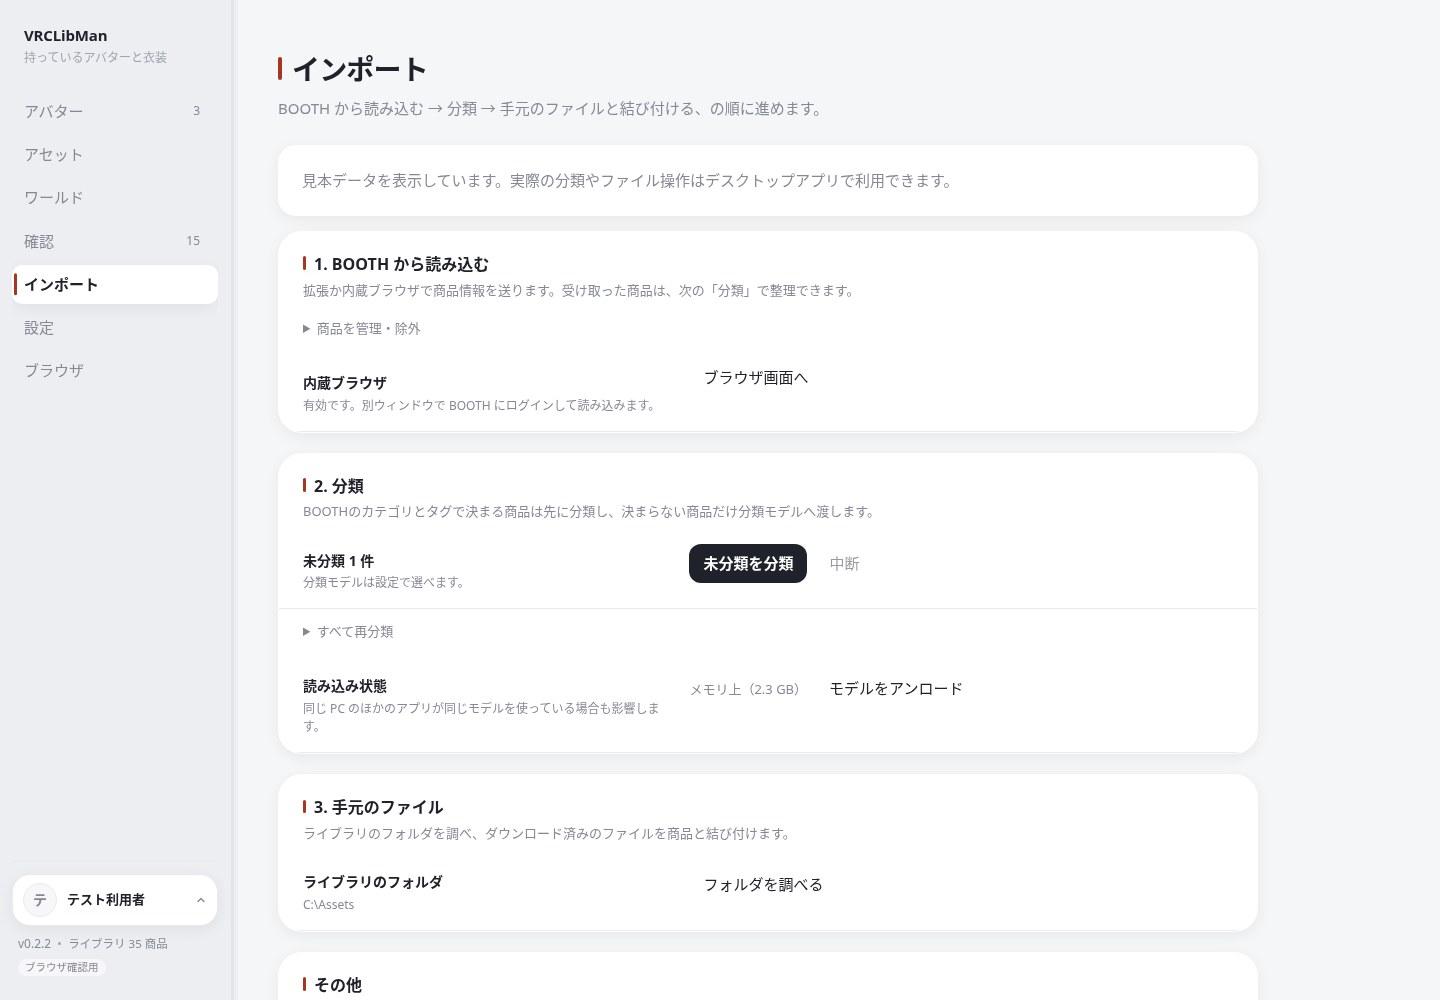
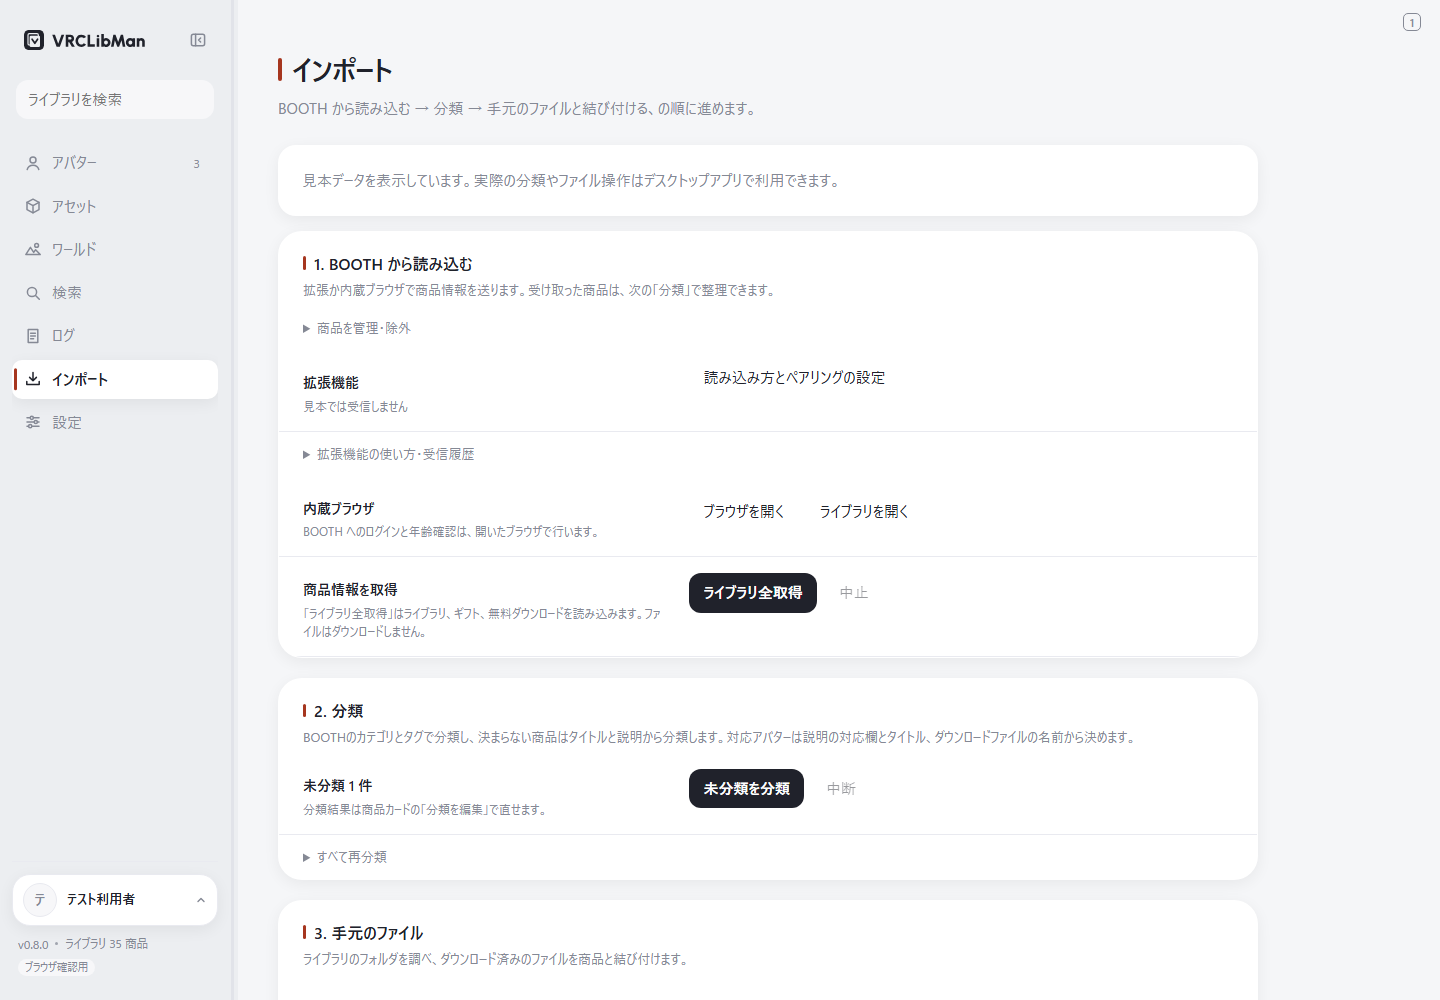
docs: 0.8.0 の画面に合わせて使い方ガイドと画像を更新する

diff --git a/docs/verification.md b/docs/verification.md
@@ -1,5 +1,13 @@
 # 検証記録
 
+## 0.8.0 の使い方ガイドと紹介の更新（2026-11-09）
+
+対象は main `c4a09c9`（0.8.0）を基準にした作業ツリー。Windows x64 / Node.js 24.18.0 / Chrome（ヘッドレス）で、開発プレビューの見本データを使用した。
+
+- 使い方ガイドの画像 16 枚を、0.8.0 の画面で撮り直した。内蔵ブラウザの画面（廃止済み）の画像はインポート画面の「1. BOOTH から読み込む」に替え、狭い窓で右パネルが小窓になる画像を加えた。参照されていない `06-review.png` は削除した。
+- 画面の文言と照合し、ガイドの対象版、狭い窓の右パネル、「確認」メニューの名残、「ログ → 分類記録」、分類の後回しから再開するボタンの位置、壊れていた見出しへのリンクを直した。
+- 配布版の WebView と実機の BOOTH 画面では撮影していない。
+
 ## ブランドのマークをアプリアイコンに統一（2026-11-09）
 
 対象は main `b709fa1` を基準にした作業ツリー（0.6.3）。Windows x64 / Node.js 24.18.0 / Rust 1.99.1 / Edge と Codex のブラウザで、開発プレビューの見本データを使用した。

diff --git a/docs/development.md b/docs/development.md
@@ -177,4 +177,8 @@ BOOTH へのアクセス間隔は 1000 / 500 / 250ms から選び、未知の値
 
 サムネイルは HTTPS の `pximg.net` / `booth.pm` に制限し、`Referer: https://booth.pm/` を付けます。pximg は `/c/150x150/` に書き換え、4MB まで取得します。
 
+### 使い方ガイドの画像
+
+`docs/images/how-to-use/` の画像は、`npm run dev` の見本データをライトテーマで撮ります。画面全体は 1440×1000、狭い窓の例は 960×720 にし、部分の画像は該当する節やダイアログの範囲で切り抜きます。URL に `?browser=1` を付けると初回セットアップを飛ばし、内蔵ブラウザを使う状態で始まります。初回セットアップの画像だけは `?browser=1` を付けずに撮ります。画面を変えたときは、該当する画像も撮り直してください。
+
 詳細な変更規則とソースの地図は [AGENTS.md](../AGENTS.md)、過去の確認範囲は [検証記録](verification.md) にあります。

diff --git a/docs/communication-recovery.md b/docs/communication-recovery.md
@@ -2,7 +2,7 @@
 
 ## 設定画面
 
-一般設定、編集用の対応表、連携状態、カタログ、Appleモデルの状態、アプリ版は独立して読み込む。一般設定を読めた時点で本文を表示し、補助情報の失敗で本文全体を隠さない。編集用の対応表は読み込むまで編集欄を出さない。
+一般設定、編集用の対応表、連携状態、カタログ、アプリ版は独立して読み込む。一般設定を読めた時点で本文を表示し、補助情報の失敗で本文全体を隠さない。編集用の対応表は読み込むまで編集欄を出さない。
 
 各読み取りは10秒で待機を区切り、失敗した情報の名前と「もう一度読み込む」を設定ページに表示する。タイムアウト後の古い応答は適用しない。再読み込み時も自動保存コントローラの世代と未保存の下書きを保持し、読み直した保存値で編集中の値を上書きしない。
 
